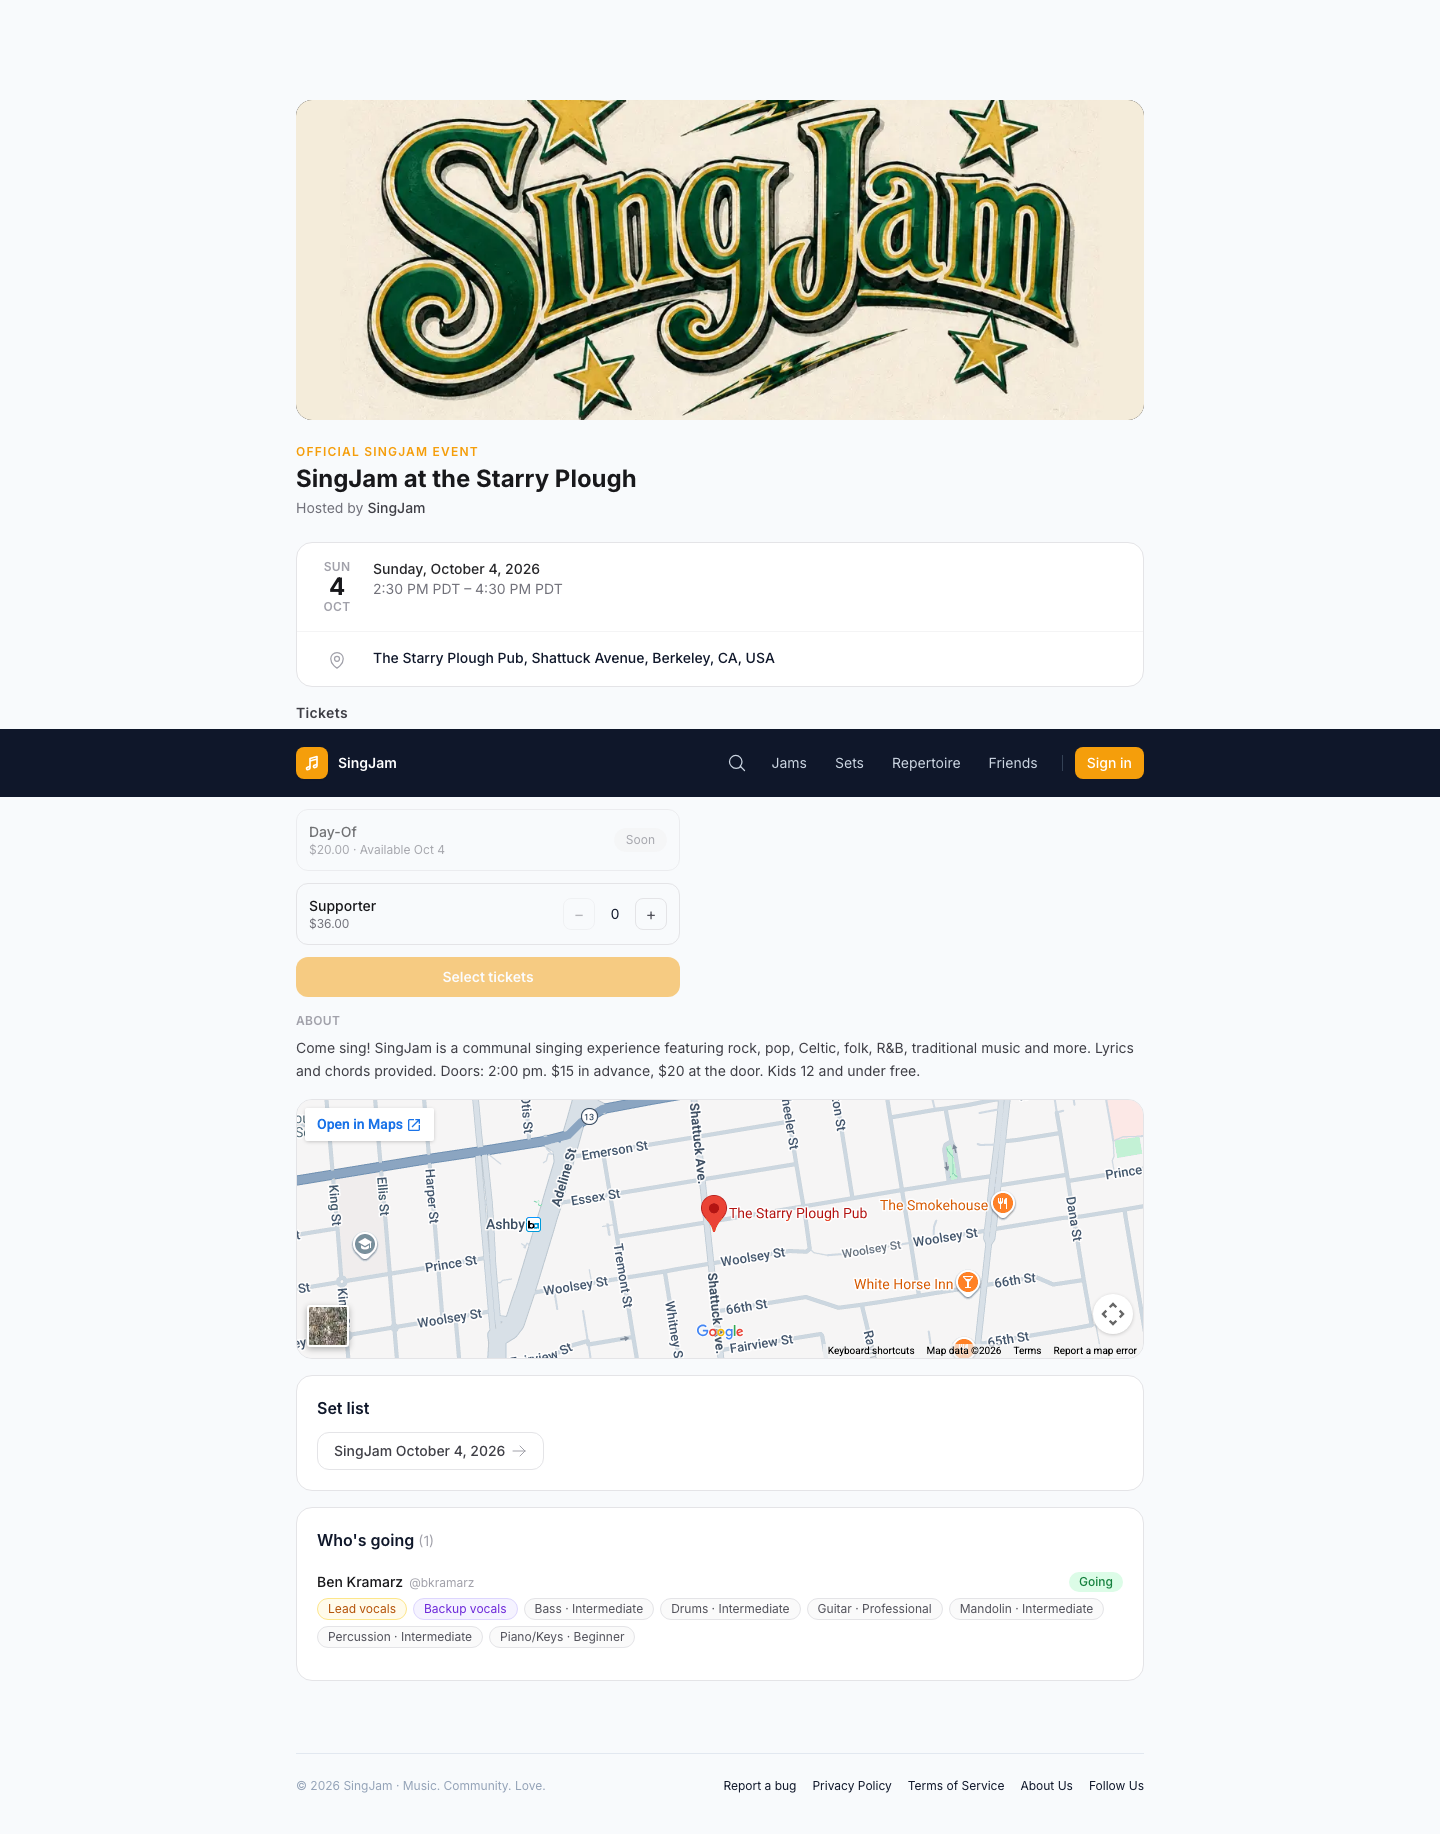
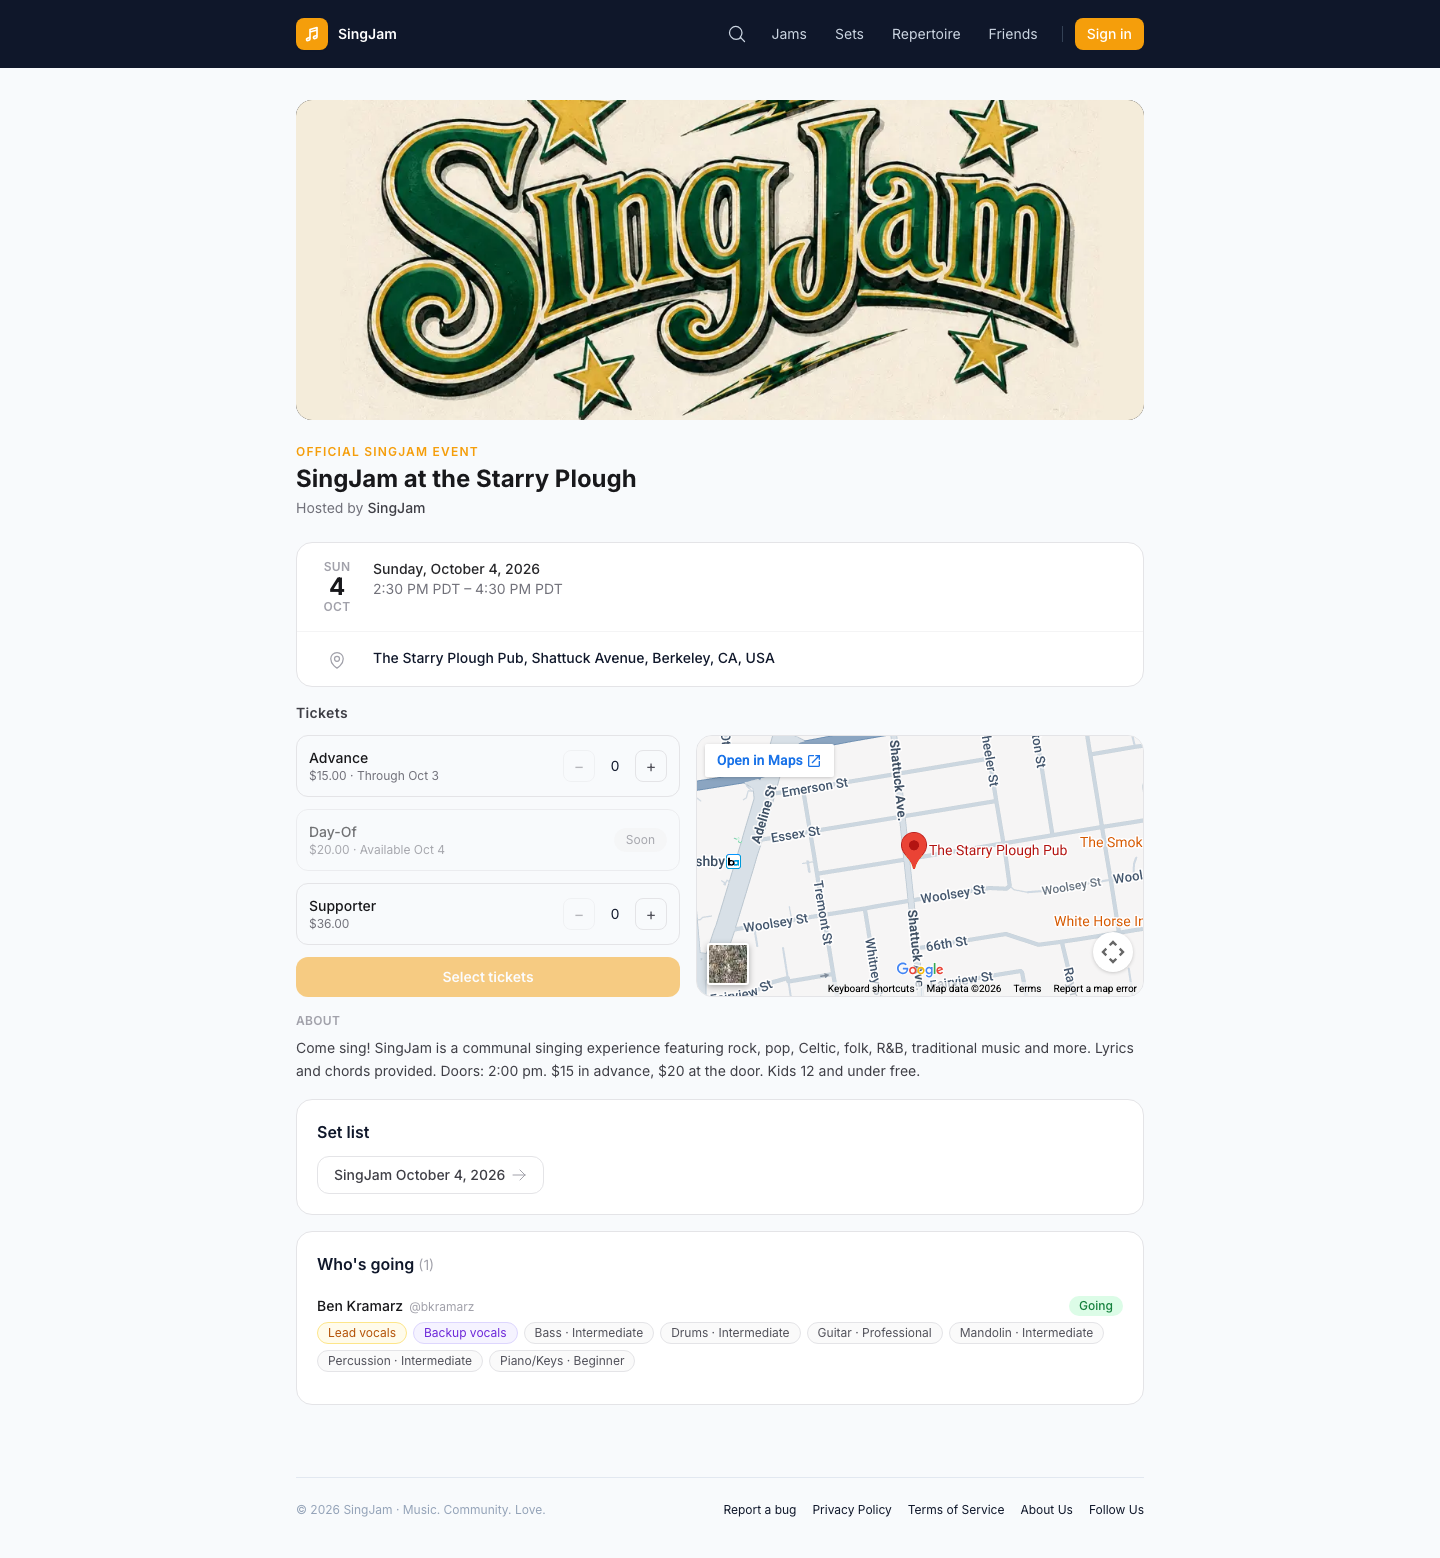
feat: map beside the tickets on a wide screen, below the description on a narrow one
wide    tickets | map        narrow   tickets
            description                   description
                                          map

One flex container with per-breakpoint `order` does this with a single map in
the DOM. Rendering it twice and hiding one by breakpoint would read more
simply and would cost a second Google Maps load on every desktop view, which
is billed. DOM order is the wide one; `order` rewrites it below the breakpoint,
and `basis-full` is what breaks the description onto its own line while the row
is wrapping. The panel carries no order class, so its implicit 0 keeps it first
in both.

Split at md rather than sm: at 640px the map came out 192px wide beside the
384px panel, too narrow to show any context. From 768px it gets 320px, and
1440px gives it 448px.

Measured at 1440/768/767/390: side-by-side above the breakpoint with the map
top level with the first tier and its bottom level with the Buy button, 0px on
both edges; stacked tickets → description → map below it. Community and private
jams remain byte-identical to main.

diff --git a/apps/web/components/JamView.tsx b/apps/web/components/JamView.tsx
@@ -150,18 +150,41 @@ export default function JamView({
       />
       {/* Official events sell tickets instead of taking RSVPs — showRsvp is
           false for them. The panel sits directly under the date/location strip
-          so the tier list and its prices get the first screenful; then the
-          description, then the map, full width like every other event's. */}
+          either way, so the tier list and its prices get the first screenful.
+          Around it the map and the description trade places by breakpoint:
+
+            wide    tickets | map        narrow   tickets
+                    description                   description
+                                                  map
+
+          The split is at md, not sm: at 640px the map got squeezed to 192px
+          beside the 384px panel, too narrow to show any context.
+
+          One flex container with per-breakpoint `order` does that with a single
+          map in the DOM. Rendering it twice and hiding one would be simpler to
+          read and would cost a second Google Maps load on every desktop view,
+          which is billed. DOM order is the wide one; `order` rewrites it below
+          md. The panel carries no order class, so its implicit 0 keeps it first
+          in both. `basis-full` is what breaks the description onto its own
+          line when the row is wrapping. */}
       {showTicketPanel && (
-        <>
+        <div className="flex flex-col gap-4 md:flex-row md:flex-wrap md:items-stretch">
           <TicketPurchasePanel
             jamId={jamId}
             isSignedIn={!!userId}
             timezone={jamCardData.timezone}
           />
-          <JamDescription jam={jamCardData} />
-          <JamMap jam={jamCardData} />
-        </>
+          {/* mt-8 clears the "Tickets" heading (20px line-height + the panel's
+              12px space-y-3) so the frame starts level with the first tier
+              rather than the heading, which labels only the ticket column;
+              items-stretch then takes that margin back off the height, so it
+              still ends level with the Buy button. */}
+          <JamMap
+            jam={jamCardData}
+            className="order-3 h-[260px] w-full md:order-2 md:mt-8 md:h-auto md:min-h-52 md:w-auto md:flex-1"
+          />
+          <JamDescription jam={jamCardData} className="order-2 md:order-3 md:basis-full" />
+        </div>
       )}
       {hasFullAccess && <JamSetList jamId={jamId} jamName={jam.name} canManage={canManage} />}
       {/* Official events that sell here show who's going too. Ticket buyers get

diff --git a/apps/web/components/JamCard.tsx b/apps/web/components/JamCard.tsx
@@ -82,10 +82,16 @@ export function JamMap({ jam, className = "h-[260px]" }: { jam: JamCardData; cla
  * either side of it and Ben picked above, which puts the price list in the
  * first screenful and leaves the detail for whoever wants it.
  */
-export function JamDescription({ jam }: { jam: JamCardData }) {
+export function JamDescription({
+  jam,
+  className = "",
+}: {
+  jam: JamCardData;
+  className?: string;
+}) {
   if (!jam.notes) return null;
   return (
-    <div className="space-y-2">
+    <div className={`space-y-2 ${className}`}>
       <h2 className="text-xs font-semibold uppercase tracking-wide text-zinc-400">About</h2>
       <p className="text-sm text-zinc-700 whitespace-pre-wrap leading-relaxed">{jam.notes}</p>
     </div>

diff --git a/apps/web/components/TicketPurchasePanel.tsx b/apps/web/components/TicketPurchasePanel.tsx
@@ -32,7 +32,7 @@ const money = (cents: number, currency: string) =>
 // Every tier row and the button live in one narrow column rather than the
 // page's full 896px: a full-width Buy button reads as a banner, not a button.
 // Full width on a phone, a fixed 384px from sm up.
-const COLUMN = "w-full sm:w-96";
+const COLUMN = "w-full sm:w-96 sm:shrink-0";
 
 
 // Buyers can't take the whole allocation in one order by accident, and it keeps
